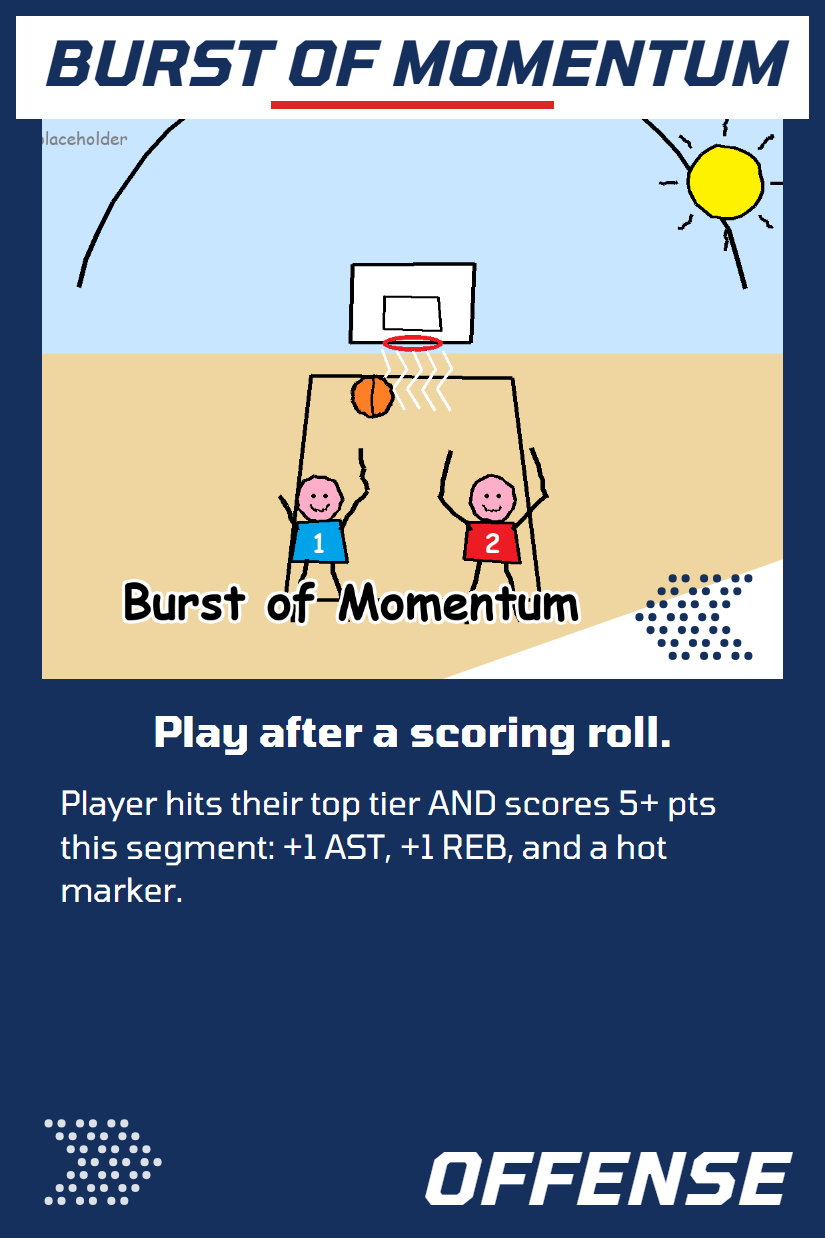
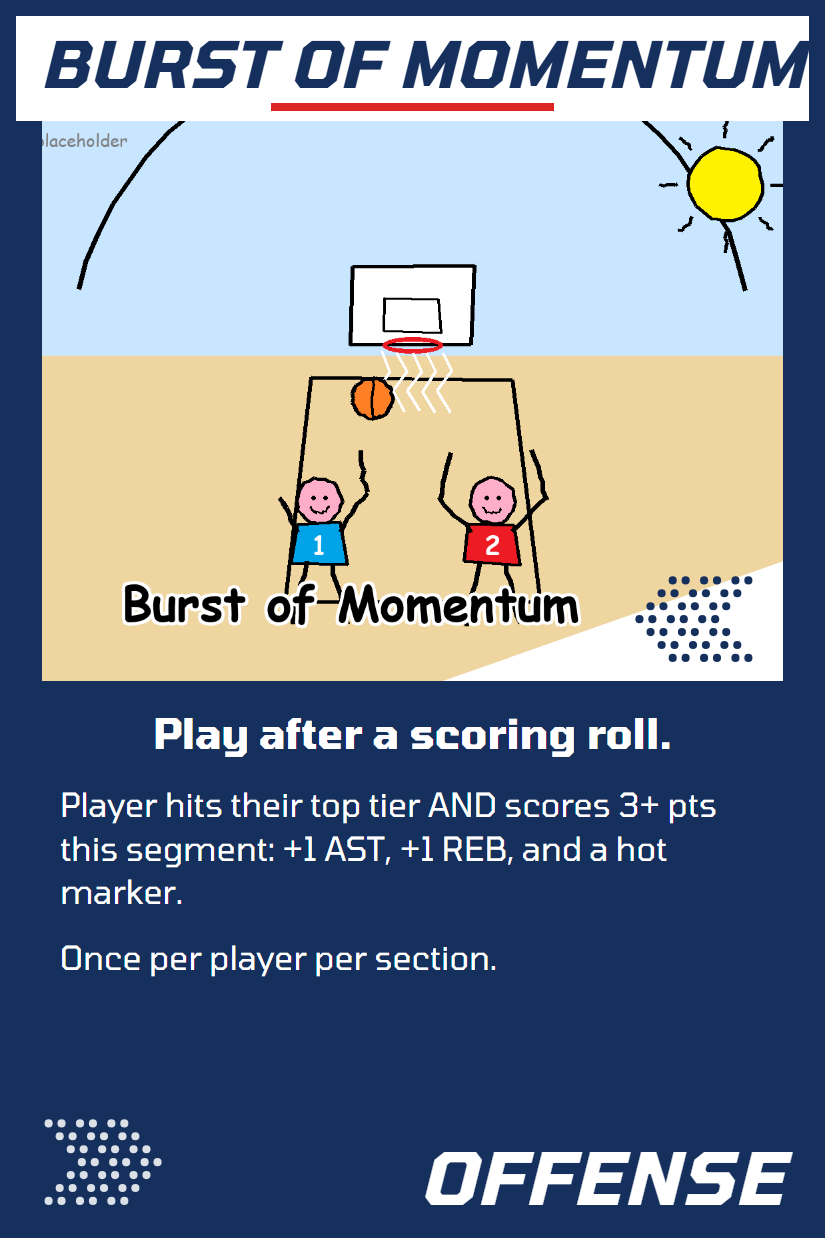
feat(strats): Burst of Momentum is once per player per section
The user: "Burst of Momentum should only be able to be applied once per
player per section." burstTargets (canPlay.js) is the one reading: a
top-tier roll of 3+ points this segment and no Burst yet this section, kept
by player id in tempEff, which the engine clears at section end. The rules
check, the engine (refuses a repeat), the board's picker and the coach all
read it; a second copy still lands on a different player who earned it. Card
text, face and a NEWS line follow.

diff --git a/src/components/game/CourtBoard.jsx b/src/components/game/CourtBoard.jsx
@@ -1,6 +1,6 @@
 import { useEffect, useRef, useState } from 'react';
 import { calcAdv, matchupAdv, getTeam, getOpp, getPS, getFatigue, SPEND_COSTS, reboundCheckOpen, reboundCheckBonus, clutchAvailable, burnedSlots, satOutLast, returnCardToDeck, lastReturnedCard, undoReturnCard, periodLabel, extraRollPending, checkNeed, fatigueForMinutes, crunchSearchOptions, rollTurnLine } from '../../game/engine.js';
-import { canPlayCard, myHouseTargets, fwdTargets, preRollTargets, helpTargets, foulTroubleTargets, clampTargets, kickOutTargets } from '../../game/canPlay.js';
+import { canPlayCard, burstTargets, myHouseTargets, fwdTargets, preRollTargets, helpTargets, foulTroubleTargets, clampTargets, kickOutTargets } from '../../game/canPlay.js';
 import { resolveGoUnder } from '../../game/execCard.js';
 import { passTurn, MAX_STRAIGHT_MINUTES, restRuleLifted, pickablePool } from '../../game/engine.js';
 import { salaryOrder } from '../../game/teamRules.js';
@@ -324,8 +324,10 @@ export async function buildOpts(game, teamKey, cardId, base, openModal, ui = {})
       case 'burst_of_momentum': {
         // 3+, as canPlay.js reads it (2026-09-16): the picker lagged the rework
         // and told a coach with a legal play there was nobody to choose.
-        eligible = filterStarters(myT.starters, (p, i) => rolls[i]?.isTop && (rolls[i]?.pts || 0) >= 3);
-        label = 'Select player (top tier + 3pts)';
+        // …and once per player per section (burstTargets, 2026-09-24).
+        const bursts = new Set(burstTargets(game, teamKey));
+        eligible = filterStarters(myT.starters, (p, i) => bursts.has(i));
+        label = 'Select player (top tier + 3pts, no Burst yet this section)';
         break;
       }
       case 'drive_the_lane': {

diff --git a/src/game/execCard.js b/src/game/execCard.js
@@ -4,7 +4,7 @@
 
 import { handOverPriority, getTeam, getOpp, getPS, calcAdv, shotCheck, matchupContest, drawCards, deepClone, getFatigue, recordDefSwitch, burnedSlots, roll20, checkAssistDraw, standingEntry, CROWD_FAVORITE_PTS, satOutLast, bottomedLines } from './engine.js';
 import { creditAllowed, creditCheckDefended, recordPaintCheck, creditPaintScore, noteLastCheck } from './engine.js';
-import { helpTargets, canAnswerCheck, myHouseHolds, foulTroubleTargets, clampTargets, kickOutTargets, pushGuardIdx, OWN_THE_GLASS_LEAD, reboundLeadProblem } from './canPlay.js';
+import { burstTargets, helpTargets, canAnswerCheck, myHouseHolds, foulTroubleTargets, clampTargets, kickOutTargets, pushGuardIdx, OWN_THE_GLASS_LEAD, reboundLeadProblem } from './canPlay.js';
 import { lookupChart } from './cards.js';
 import { getStrat } from './strats.js';
 
@@ -833,6 +833,10 @@ function resolveCard(game, teamKey, cardId, opts = {}) {
       const rr = (g.rollResults[teamKey] || [])[idx];
       if (!rr?.isTop) return fail('Player must hit highest scoring tier');
       if ((rr?.pts || 0) < 3) return fail(`Player scored ${rr?.pts} pts (need 3+)`);
+      // Once per player per section (burstTargets, canPlay.js).
+      if (!burstTargets(g, teamKey).includes(idx)) return fail(`${player?.name} has had a Burst of Momentum this section`);
+      if (!g.tempEff[teamKey]) g.tempEff[teamKey] = {};
+      g.tempEff[teamKey].burstIds = [...(g.tempEff[teamKey].burstIds || []), player?.id];
       myT.assists++;
       myT.rebounds++;
       if (g.analytics?.[teamKey]) { g.analytics[teamKey].assistsFromCards++; g.analytics[teamKey].reboundsGenerated++; }

diff --git a/src/game/canPlay.js b/src/game/canPlay.js
@@ -163,6 +163,25 @@ export function preRollTargets(g, teamKey, cond = () => true) {
  * `{ offSlot, off, def, defIdx, adv }` so the picker and the engine agree on
  * who is eligible, the pattern every other conditional card here follows.
  */
+/**
+ * BURST OF MOMENTUM'S PLAYERS: a top-tier roll of 3+ points this segment, and
+ * no Burst yet this section. ONCE PER PLAYER PER SECTION (the user,
+ * 2026-09-24: "Burst of Momentum should only be able to be applied once per
+ * player per section"). Who has had one is kept by player id in tempEff,
+ * which the engine clears at section end. Slot indices, like the others here,
+ * so the picker, the engine and the coach agree.
+ */
+export function burstTargets(g, teamKey) {
+  const rolls = g.rollResults?.[teamKey] || [];
+  const starters = getTeam(g, teamKey)?.starters || [];
+  const had = new Set(g.tempEff?.[teamKey]?.burstIds || []);
+  const out = [];
+  starters.forEach((p, i) => {
+    if (rolls[i]?.isTop && (rolls[i]?.pts || 0) >= 3 && !had.has(p?.id)) out.push(i);
+  });
+  return out;
+}
+
 export function helpTargets(g, teamKey) {
   const oppKey = teamKey === 'A' ? 'B' : 'A';
   const myT = getTeam(g, teamKey);
@@ -704,6 +723,7 @@ function cardVerdict(g, teamKey, cardId) {
     // 3+, not 5+ (2026-09-16): a top band pays 1-4 points; 5+ never came.
     const ok2 = (g.rollResults[teamKey] || []).some(r => r?.isTop && (r?.pts || 0) >= 3);
     if (!ok2) return no('Need a player who hit top tier AND scored 3+ pts');
+    if (!burstTargets(g, teamKey).length) return no('Burst of Momentum is once per player per section');
     return ok();
   }
 

diff --git a/src/game/waveOneStrats.test.js b/src/game/waveOneStrats.test.js
@@ -337,6 +337,25 @@ describe('scoring-phase wave-one cards', () => {
     expect(play(two, 'burst_of_momentum', { playerIdx: 2 }).ok).toBe(false);
   });
 
+  it('Burst of Momentum is once per player per section (the user, 2026-09-24)', () => {
+    const g = game({ hand: ['burst_of_momentum', 'burst_of_momentum'] });
+    g.rollResults.A[2] = { isTop: true, pts: 3, reb: 1, ast: 1 };
+    const once = play(g, 'burst_of_momentum', { playerIdx: 2 });
+    expect(once.ok).toBe(true);
+    // The same player again, this section: refused on the board and in the engine.
+    expect(canPlayCard(once.game, 'A', 'burst_of_momentum').canPlay).toBe(false);
+    expect(canPlayCard(once.game, 'A', 'burst_of_momentum').reason).toMatch(/once per player per section/);
+    expect(play(once.game, 'burst_of_momentum', { playerIdx: 2 }).ok).toBe(false);
+    // Another player who earned it still can.
+    once.game.rollResults.A[4] = { isTop: true, pts: 4, reb: 0, ast: 0 };
+    expect(canPlayCard(once.game, 'A', 'burst_of_momentum').canPlay).toBe(true);
+    expect(play(once.game, 'burst_of_momentum', { playerIdx: 4 }).ok).toBe(true);
+    // And the next section, the first player again (tempEff clears at section end).
+    const next = structuredClone(once.game);
+    next.tempEff.A = {};
+    expect(play(next, 'burst_of_momentum', { playerIdx: 2 }).ok).toBe(true);
+  });
+
   it('Unsung Hero is for $400 or less', () => {
     const A = five('a'); A[2] = p('hero', 10, 10, { salary: 400 });
     const g = game({ A, hand: ['unsung_hero'] });

diff --git a/src/game/ai.js b/src/game/ai.js
@@ -5,7 +5,7 @@
 
 import { getTeam, getOpp, getPS, calcAdv, matchupAdv, isGhosted, getFatigue, fatigueForMinutes, restMinutes, MAX_STRAIGHT_MINUTES, pickablePool, SPEND_COSTS, REBOUND_RULES, reboundCheckOpen, reboundCheckBonus, clutchAvailable, clutchEligible, burnedSlots, satOutLast, canRollSlot, extraRollPending, checkNeed, crunchSearchOptions } from './engine.js';
 import { lookupChart } from './cards.js';
-import { canPlayCard, helpTargets, staggerPair, myHouseTargets, foulTroubleTargets, clampTargets, kickOutTargets, REBOUND_CARD_COST } from './canPlay.js';
+import { canPlayCard, burstTargets, helpTargets, staggerPair, myHouseTargets, foulTroubleTargets, clampTargets, kickOutTargets, REBOUND_CARD_COST } from './canPlay.js';
 import { getStrat, STRATS, TIMEOUT_RIDERS } from './strats.js';
 import { DEFAULT_ORDER } from './placement.js';
 
@@ -1618,8 +1618,9 @@ export function aiBuildCardOpts(game, teamKey, cardId) {
     }
 
     case 'burst_of_momentum': {
-      const topBig = rolls.findIndex(r => r?.isTop && (r?.pts || 0) >= 3);
-      return { playerIdx: topBig >= 0 ? topBig : 0 };
+      // Once per player per section: the first who has not had one.
+      const [first] = burstTargets(game, teamKey);
+      return { playerIdx: first ?? 0 };
     }
 
     case 'flare_screen': {

diff --git a/src/game/home.js b/src/game/home.js
@@ -23,6 +23,11 @@ import { teamIdFor } from './modes/league.js';
  */
 export const NEWS = [
   {
+    id: 'burst-once', date: '2026-09-24', title: 'Burst of Momentum: once per player per section',
+    body: 'Burst of Momentum (+1 AST, +1 REB and a hot marker for a top-tier roll of 3+ points) can now be played on each player once per section. A second copy still works on a different player who earned it.',
+    to: 'play', cta: 'Play',
+  },
+  {
     id: 'super-season-value', date: '2026-09-24', title: 'Every Super Season is a career\'s best card',
     body: 'A player\'s Super Season is now the season that makes his most valuable card, priced the same way as salary, not picked by a stats formula. 104 moved, among them Maya Moore to 2013, Michael Jordan to 1989-90, Larry Bird to 1987-88 and Kobe Bryant to 2008-09. A Super Season you own keeps its place and now shows the new year. Some replaced seasons come back as Throwbacks; the rest stay out of packs, and you can ask for any of them through Free Agents. Salaries were re-measured too, with rebounds and assists priced at what they buy in a game.',
     to: 'goals', cta: 'Collections',

diff --git a/src/game/strats.js b/src/game/strats.js
@@ -72,7 +72,8 @@ export const STRATS = [
   { id:'burst_of_momentum',   name:'Burst of Momentum',  phase:'post_roll',side:'off', copies:2, locked:false, color:'#DC2626', rarity:'uncommon',
     // 3+, not 5+ (2026-09-16): a chart's top band pays at most 4 points a
     // roll, so the old door never opened once — measured, not guessed.
-    desc:'Player hits their top tier AND scores 3+ pts this segment: +1 AST, +1 REB, and a hot marker.' },
+    // ONCE PER PLAYER PER SECTION (2026-09-24, the user). burstTargets in canPlay.js.
+    desc:'Player hits their top tier AND scores 3+ pts this segment: +1 AST, +1 REB, and a hot marker. Once per player per section.' },
   { id:'flare_screen',        name:'Flare Screen',       phase:'post_roll',side:'off', copies:2, locked:false, color:'#F59E0B', rarity:'uncommon',
     desc:'A player rolled a natural 20: they make a 3PT Shot Check. Success: +3 pts + draw a card.' },
 
